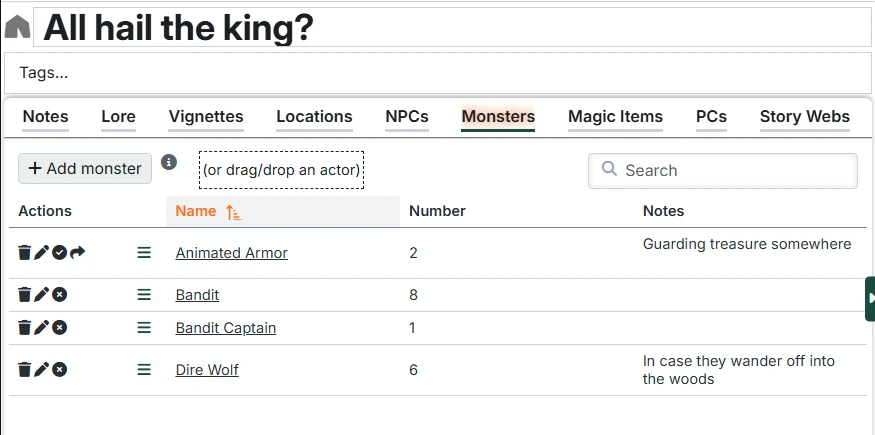
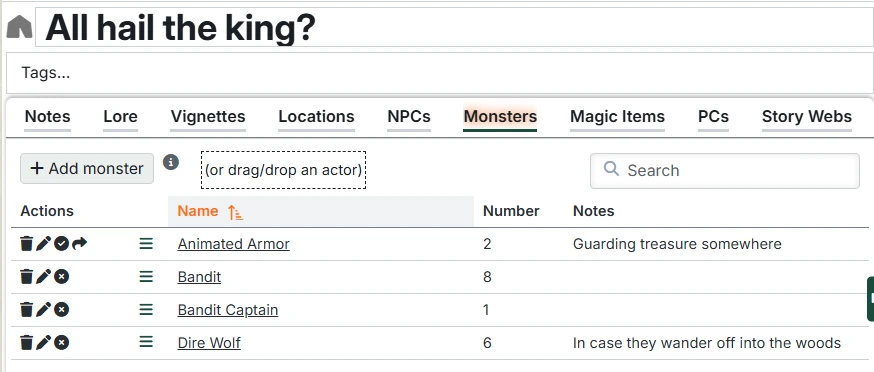
updated column

diff --git a/src/applications/stores/sessionStore.ts b/src/applications/stores/sessionStore.ts
@@ -8,7 +8,6 @@ import { defineStore, storeToRefs, } from 'pinia';
 import { useCampaignDirectoryStore, useMainStore, useNavigationStore, usePlayingStore, } from '@/applications/stores';
 import { FCBDialog } from '@/dialogs';
 import { localize } from '@/utils/game'; 
-import { htmlToPlainTextReplaceUuid } from '@/utils/sanitizeHtml';
 import { getArcForSession } from '@/utils/arcIndex';
 
 // types
@@ -69,7 +68,7 @@ export const useSessionStore = defineStore('session', () => {
     [SessionTableTypes.Monster]: [
       { field: 'drag', style: 'text-align: center; width: 40px; max-width: 40px', header: '' },
       { field: 'name', style: 'text-align: left', header: 'Name', sortable: true, onClick: onMonsterClick },
-      { field: 'number', header: 'Number', editable: true, smallEditBox: true },
+      { field: 'number', header: 'Number', style: 'width: 80px; max-width: 80px', editable: true, smallEditBox: true },
       { field: 'notes', style: 'text-align: left', header: 'Notes', editable: true },
     ], 
     [SessionTableTypes.Vignette]: [
